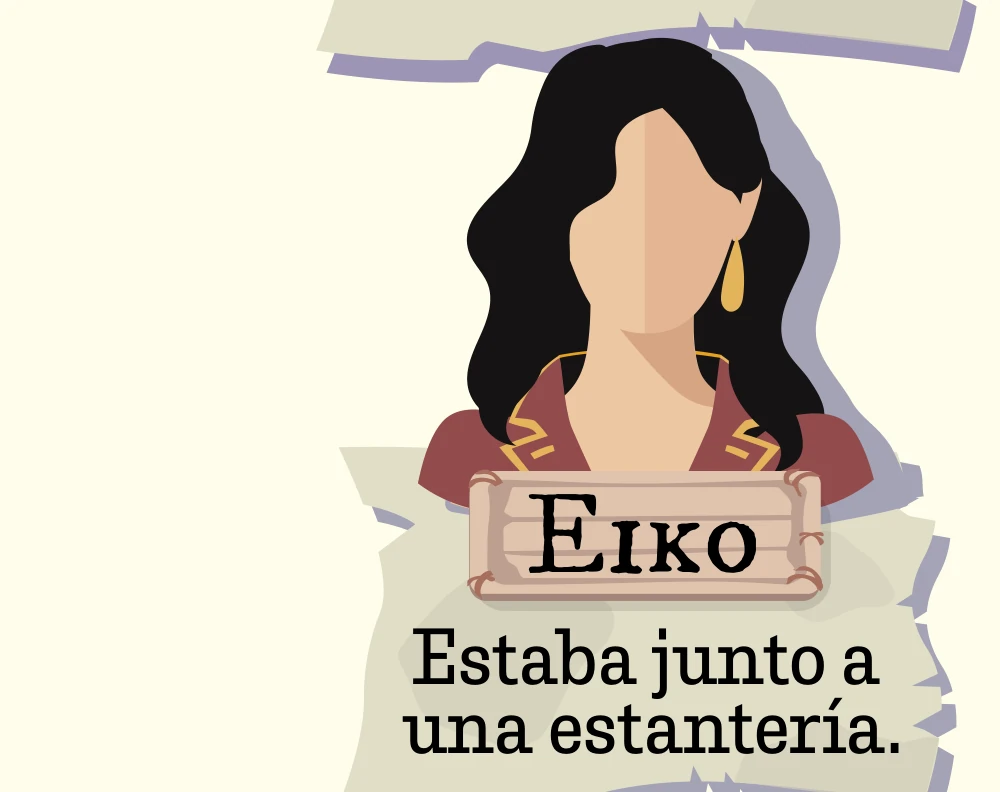
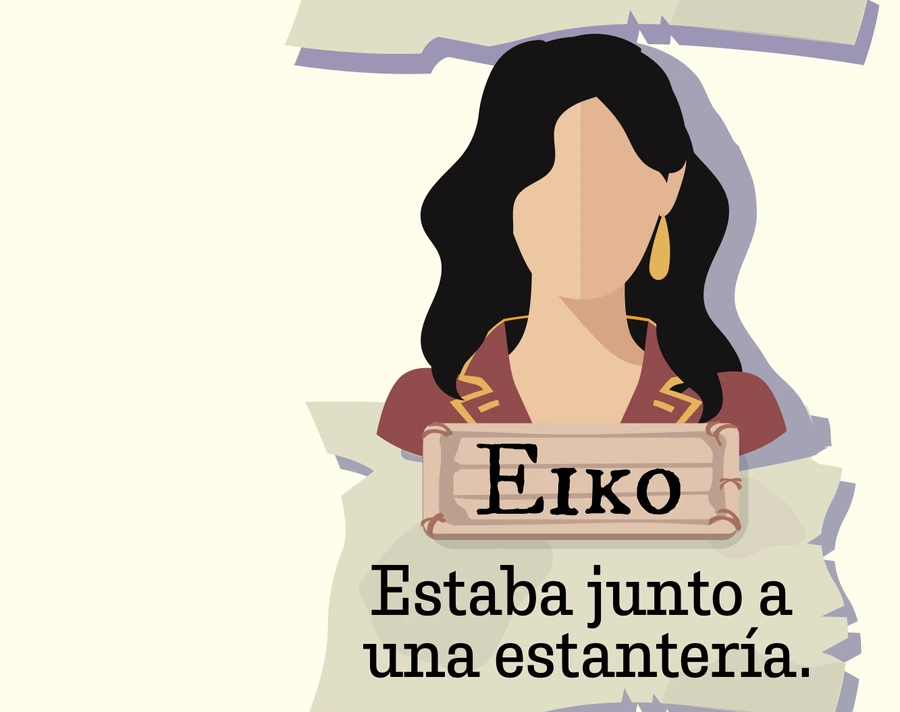
Refine Murdoku portrait crops and roster cards

diff --git a/murdoku/css/styles.css b/murdoku/css/styles.css
@@ -282,15 +282,15 @@ button:focus-visible, input:focus-visible, [tabindex]:focus-visible {
   width: 100%;
   height: 100%;
   object-fit: cover;
-  object-position: 50% 0%;
+  object-position: 50% 100%;
   display: block;
 }
 .person-card .thumb::before {
   content: "";
   position: absolute;
   inset: 0 0 auto 0;
-  height: 23%;
-  background: linear-gradient(180deg, var(--card) 8%, rgba(255, 250, 240, 0));
+  height: 18%;
+  background: linear-gradient(180deg, var(--card) 10%, rgba(255, 250, 240, 0));
   pointer-events: none;
   z-index: 1;
 }
@@ -298,7 +298,7 @@ button:focus-visible, input:focus-visible, [tabindex]:focus-visible {
   content: "";
   position: absolute;
   inset: 0;
-  background: linear-gradient(180deg, transparent 55%, rgba(20, 14, 8, 0.12));
+  background: linear-gradient(180deg, transparent 88%, rgba(20, 14, 8, 0.08));
   pointer-events: none;
 }
 
@@ -638,8 +638,8 @@ button:focus-visible, input:focus-visible, [tabindex]:focus-visible {
   position: absolute;
   inset: 0;
   background-repeat: no-repeat;
-  background-size: 190%;
-  background-position: 50% 16%;
+  background-size: 145%;
+  background-position: 50% 12%;
   transform: scale(1.02);
 }
 .token-inner::after {
@@ -862,8 +862,8 @@ button:focus-visible, input:focus-visible, [tabindex]:focus-visible {
 .clue-card .clue-face img {
   width: 100%; height: 100%;
   object-fit: cover;
-  object-position: 50% 0%;
-  transform: scale(1.55);
+  object-position: 50% 12%;
+  transform: scale(1.25);
   transform-origin: 50% 0%;
 }
 .clue-card .clue-body { min-width: 0; display: flex; flex-direction: column; gap: 2px; }

diff --git a/murdoku/index.html b/murdoku/index.html
@@ -3,7 +3,6 @@
 <head>
   <meta charset="UTF-8">
   <meta name="viewport" content="width=device-width, initial-scale=1.0">
-  <meta name="robots" content="noindex, nofollow">
   <meta name="description" content="Versión jugable de La Búsqueda del Tesoro, el puzle de Murdoku del concurso mundial #1. Coloca a los sospechosos y encuentra el cofre.">
   <title>Murdoku · La Búsqueda del Tesoro</title>
   <link rel="icon" type="image/webp" href="assets/treasure.webp">
